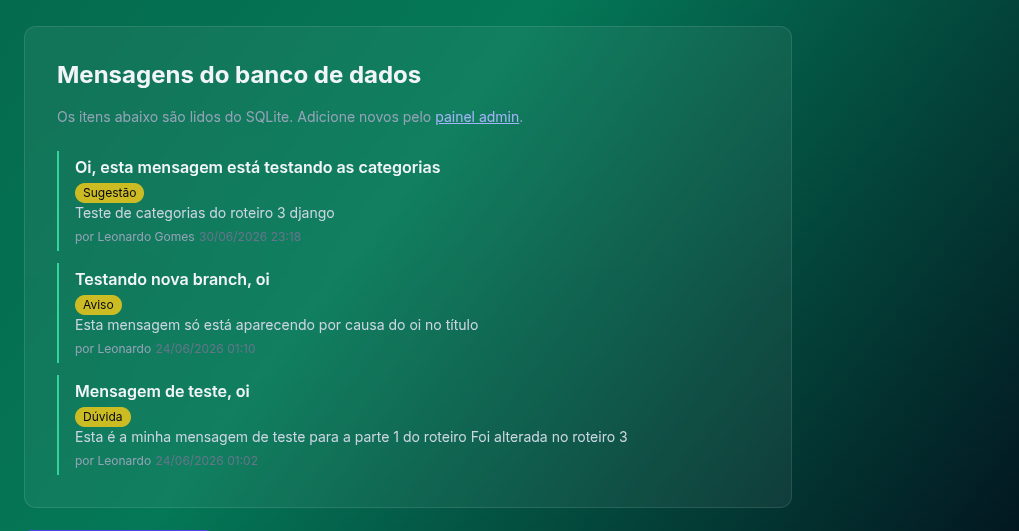
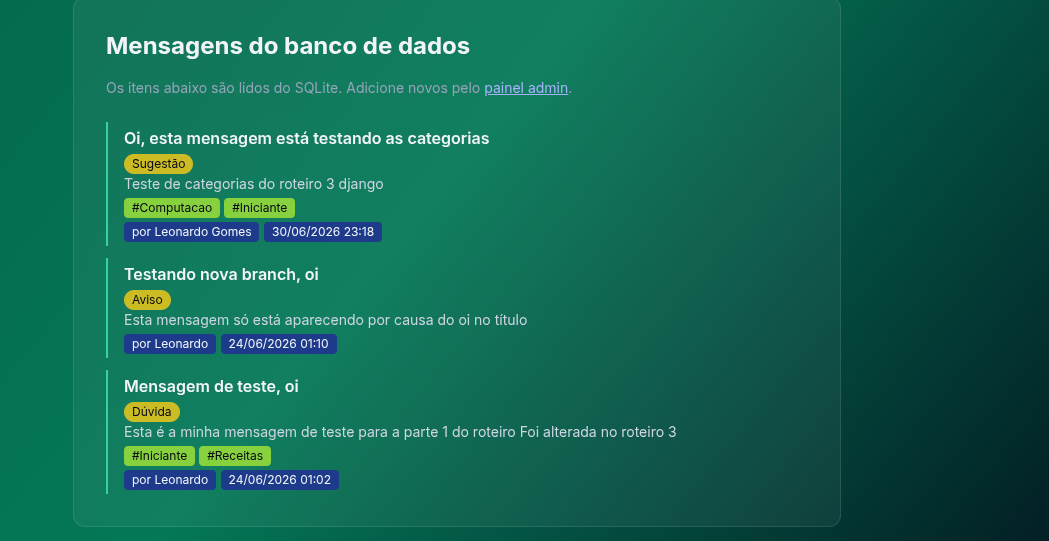
roteiro 4 do djando, relacao muitos para muitos

diff --git a/demo-django/templates/home/index.html b/demo-django/templates/home/index.html
@@ -68,8 +68,17 @@
                             </span>
                         {% endif %}
                         <p class="text-sm text-slate-300">{{ m.conteudo }}</p>
-                        <span class="text-xs text-slate-400">por {{ m.autor }}</span>
-                        <span class="text-xs text-slate-500">{{ m.criada_em|date:"d/m/Y H:i" }}</span>
+                        {% if m.tags.all %}  
+                            <div class="flex flex-wrap gap-1 mt-1">
+                                {% for tag in m.tags.all %}
+                                    <span class="inline-block px-2 py-0.5 bg-lime-400/80 text-gray-950 text-xs rounded">
+                                        #{{ tag.nome }}
+                                    </span>
+                                {% endfor %}
+                            </div>
+                        {% endif %}
+                        <span class="inline-block px-2 py-0.5 text-xs text-mist-50 bg-blue-900 text-xs rounded">por {{ m.autor }}</span>
+                        <span class="inline-block px-2 py-0.5 text-xs text-mist-50 bg-blue-900 text-xs rounded">{{ m.criada_em|date:"d/m/Y H:i" }}</span>
                     </li>
                     {% endfor %}
                 </ul>

diff --git a/demo-django/home/models.py b/demo-django/home/models.py
@@ -1,7 +1,17 @@
 from django.db import models
 
-class Categoria(models.Model):                                  # ← novo model
+class Categoria(models.Model):                                 
     nome = models.CharField(max_length=50, unique=True)
+
+    class Meta:
+        ordering = ["nome"]
+
+    def __str__(self):
+        return self.nome
+    
+
+class Tag(models.Model):                                      
+    nome = models.SlugField(max_length=30, unique=True)
 
     class Meta:
         ordering = ["nome"]
@@ -15,12 +25,18 @@ class Mensagem(models.Model):
     criada_em = models.DateTimeField(auto_now_add=True)
     autor = models.CharField(max_length=80)
     
-    categoria = models.ForeignKey(                              # ← novo campo
+    categoria = models.ForeignKey(  
         Categoria,
         on_delete=models.SET_NULL,
         null=True,
         blank=True,
         related_name="mensagens",
+    )
+
+    tags = models.ManyToManyField(
+    Tag,
+    blank=True,
+    related_name="mensagens",
     )
 
     class Meta:

diff --git a/demo-django/home/admin.py b/demo-django/home/admin.py
@@ -1,15 +1,23 @@
 from django.contrib import admin
 
-from .models import Mensagem, Categoria
+from .models import Mensagem, Categoria, Tag
 
-@admin.register(Categoria)                                       # ← novo
+@admin.register(Categoria)                                      
 class CategoriaAdmin(admin.ModelAdmin):
     list_display = ("nome",)
     search_fields = ("nome",)
 
+
+@admin.register(Tag)                                           
+class TagAdmin(admin.ModelAdmin):
+    list_display = ("nome",)
+    search_fields = ("nome",)
+
+
 @admin.register(Mensagem)
 class MensagemAdmin(admin.ModelAdmin):
     list_display = ("titulo", "categoria","criada_em")
-    list_filter = ("categoria",)
+    list_filter = ("categoria","tags")
     search_fields = ("titulo", "conteudo")
     autor = ("titulo", "autor")
+    filter_horizontal = ("tags",)

diff --git a/demo-django/home/migrations/0004_tag_mensagem_tags.py b/demo-django/home/migrations/0004_tag_mensagem_tags.py
@@ -1,0 +1,28 @@
+# Generated by Django 5.1.3 on 2026-07-01 02:44
+
+from django.db import migrations, models
+
+
+class Migration(migrations.Migration):
+
+    dependencies = [
+        ('home', '0003_categoria_mensagem_categoria'),
+    ]
+
+    operations = [
+        migrations.CreateModel(
+            name='Tag',
+            fields=[
+                ('id', models.BigAutoField(auto_created=True, primary_key=True, serialize=False, verbose_name='ID')),
+                ('nome', models.SlugField(max_length=30, unique=True)),
+            ],
+            options={
+                'ordering': ['nome'],
+            },
+        ),
+        migrations.AddField(
+            model_name='mensagem',
+            name='tags',
+            field=models.ManyToManyField(blank=True, related_name='mensagens', to='home.tag'),
+        ),
+    ]

diff --git a/demo-django/README.md b/demo-django/README.md
@@ -21,6 +21,6 @@ Para visualizar a página
 http://localhost:8000
 
 # Screenshots
-![Sobre](screenshots/image.png)
-![Sobre](screenshots/image1.png)
-![Admin](screenshots/image2.png)
+![Sobre](demo-django/screenshots/image.png)
+![Sobre](demo-django/screenshots/image1.png)
+![Admin](demo-django/screenshots/image2.png)
